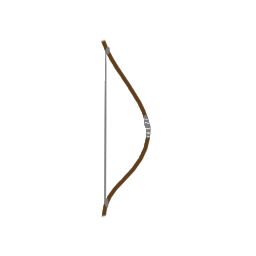
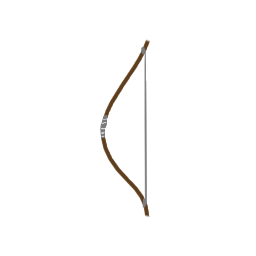
Sok minden!?!?!?!

Changed region(s): [[0.375, 0.1562, 0.5938, 0.8438]]

diff --git a/core/src/csakennijottunk/Game/GameStage.java b/core/src/csakennijottunk/Game/GameStage.java
@@ -39,8 +39,12 @@ public class GameStage extends MyStage {
     PlayerLife life1;
     PlayerLife life2;
     PlayerLife life3;
+    BowActor bowActor;
+    BowPulled bowPulled;
     int playerLife = 3;
     boolean gameOver = false;
+
+
 
     public void generateFlying(){
         ArrayList<Actor> actors = new ArrayList<Actor>();
@@ -52,17 +56,11 @@ public class GameStage extends MyStage {
         for (Actor a:actors) {
             getActors().removeValue(a, true);
         }
+
         Ballistics2 ballistics2 = new Ballistics2(fisherManActor.v0, MathUtils.degreesToRadians * fisherManActor.degree, fisherManActor.get_handEnd().x, fisherManActor.get_handEnd().y);
-        for(float x = fisherManActor.get_handEnd().x; x < getViewport().getWorldWidth(); x+=20) {
+        for(float x = fisherManActor.get_handEnd().x; x < playerActor.getX() + 700; x+=20) {
             addActor(new FlyActor(game, x, ballistics2.getY(x)));
         }
-    }
-
-    public Vector2 getFishingRodEnd(){
-        Vector2 fishingRodEnd = new Vector2(fishingRod);
-        fishingRodEnd.rotate(fisherManActor.degree);
-        fishingRodEnd.add(fisherMan);
-        return fishingRodEnd;
     }
 
     public Actor getActor(Class c){
@@ -76,7 +74,6 @@ public class GameStage extends MyStage {
 
     public GameStage(MyGame game) {
         super(new ResponseViewport(500), game);
-        fisherManActor = new FisherManGroup(game);
         addBackButtonScreenBackByStackPopListener();
         setCameraResetToCenterOfScreen();
         changeActor = new ChangeActor(game);
@@ -109,8 +106,10 @@ public class GameStage extends MyStage {
         life3.setPosition(450, 0);
         addActor(life3);
 
-        bearActor = (BearActor) getActor(BearActor.class);
+        bowActor = new BowActor(game);
+        addActor(bowActor);
 
+        bearActor = (BearActor) getActor(BearActor.class);
         playerActor = (PlayerActor) getActor(PlayerActor.class);
         setCameraTracking(new CameraTrackingToActors());
         ((OrthographicCamera)getCamera()).zoom = 0.1f;
@@ -138,6 +137,19 @@ public class GameStage extends MyStage {
                 }
             }
         });
+        bowActor.addListener(clickListener = new ClickListener(){
+            @Override
+            public void clicked(InputEvent event, float x, float y) {
+                super.clicked(event, x, y);
+                if (playerActor.isMoving == true) {
+                    playerActor.jump();
+                }
+            }
+        });
+
+        if (playerActor.getStage() != null) {
+            fisherManActor = new FisherManGroup(game, playerActor.getX(), playerActor.getY(), playerActor.getX() - 15, playerActor.getY() - 15, playerActor.getX() - 30, playerActor.getY());
+        }
         weaponChange.addListener(new ClickListener(){
             @Override
             public void clicked(InputEvent event, float x, float y) {
@@ -145,8 +157,16 @@ public class GameStage extends MyStage {
                 isBowInHand = !getState();
                 if (getState() == true){
                     playerActor.isMoving = false;
+                    playerActor.setFps(0);
                 }else{
                     playerActor.isMoving = true;
+                    playerActor.setFps(20);
+                    ArrayList<Actor> actors = new ArrayList<Actor>();
+                    for (Actor a:getActors()) {
+                        if (a instanceof FlyActor){
+                            a.remove();
+                        }
+                    }
                 }
             }
         });
@@ -158,6 +178,7 @@ public class GameStage extends MyStage {
                 if (isBowInHand == true) {
                     fisherManActor.set_angle(heightToDegree(y));
                     fisherManActor.set_speed(widthToSpeed(x));
+                    fisherManActor.setPos(playerActor.getX() + playerActor.getWidth() / 2,playerActor.getY() + playerActor.getHeight() / 2);
                     generateFlying();
                     playerActor.isMoving = false;
                 }
@@ -168,6 +189,7 @@ public class GameStage extends MyStage {
                 super.touchUp(event, x, y, pointer, button);
                 if (isBowInHand == true) {
                     addActor(fishFoodActor = new FishFoodActor(game, new Ballistics2(fisherManActor.v0, MathUtils.degreesToRadians * fisherManActor.degree, fisherManActor.get_handEnd().x, fisherManActor.get_handEnd().y), 120));
+
                     //((CameraTrackingToActors)getCameraTracking()).addActor(fishFoodActor);
                 }
             }
@@ -243,6 +265,13 @@ public class GameStage extends MyStage {
 
                 }
             }
+        }
+        if (playerActor.getStage() != null && weaponChange.getStage() != null) {
+            weaponChange.setPosition(playerActor.getX() + 20,getHeight() - weaponChange.getHeight() - 25);
+        }
+
+        if (playerActor.getStage() != null){
+            bowActor.setPosition(playerActor.getX() + playerActor.getWidth() / 2 - 10 - bowActor.getWidth()/2,playerActor.getY() + playerActor.getHeight() / 2 - bowActor.getHeight() / 2);
         }
     }
 }

diff --git a/core/src/csakennijottunk/Game/FisherManGroup.java b/core/src/csakennijottunk/Game/FisherManGroup.java
@@ -14,18 +14,22 @@ public class FisherManGroup extends MyGroup {
         bugFix
     }
 
+    Vector2 topsolders;
+    Vector2 arm;
+    Vector2 rod;
     public Handtype handtype = Handtype.hand;
     public float degree = 45;
     public float v0 = 100;
     public FisherManHandActor fisherManHandActor;
     public HandRod fisherManRodActor;
     public FisherManActor fisherManActor;
-    public Vector2 topsolders = new Vector2(210,310);
-    public Vector2 arm = new Vector2(154,11);
-    public Vector2 rod = new Vector2(276,200).rotate(-45);
 
-    public FisherManGroup(MyGame game) {
+
+    public FisherManGroup(MyGame game,float x1, float y1,float x2, float y2, float x3, float y3) {
         super(game);
+        this.topsolders = new Vector2(x1,y1);
+        this.arm = new Vector2(x2,y2);
+        this.rod = new Vector2(x3,y3).rotate(-45);
         addActor(fisherManActor = new FisherManActor(game));
         addActor(fisherManHandActor = new FisherManHandActor(game));
         addActor(fisherManRodActor = new HandRod(game));
@@ -43,6 +47,10 @@ public class FisherManGroup extends MyGroup {
 
     void set_speed(float v0){
         this.v0 = v0;
+    }
+
+    void setPos(float x1,float y1){
+        topsolders = new Vector2(x1, y1);
     }
 
     void set_hand(Handtype handtype){
@@ -74,9 +82,6 @@ public class FisherManGroup extends MyGroup {
     Vector2 get_handEnd(){
         Vector2 r = new Vector2(getX(),getY());
         r.add(topsolders);
-        Vector2 forgatott = new Vector2((handtype == Handtype.hand ||  handtype == Handtype.none) ? arm : rod);
-        forgatott.rotate(degree);
-        r.add(forgatott);
         return  r;
     }
 }

diff --git a/core/src/csakennijottunk/Game/PlayerActor.java b/core/src/csakennijottunk/Game/PlayerActor.java
@@ -36,13 +36,15 @@ public class PlayerActor extends OneSpriteAnimatedActor {
     @Override
     public void act(float delta) {
         super.act(delta);
+        float currentPos = this.getY();
+        System.out.println(currentPos);
         if (isMoving == true){
             this.setX(this.getX() + 3);
         }
         if (isJumping == true){
             System.out.println("Jelenlegi pos" + this.getY());
             System.out.println((501 - this.getHeight() + 9)/2 + "Ez a cél");
-            float currentPos = this.getY();
+
             if (currentPos >= 30 && currentPos < (501 - this.getHeight() + 9)/2 + 7.5) {
                 System.out.println("pos jó");
                 this.setY(this.getY() + 15);
@@ -55,11 +57,11 @@ public class PlayerActor extends OneSpriteAnimatedActor {
         }
 
         if (isFalling == true){
-            float currentPos = this.getY();
             if (currentPos <= 501-this.getHeight() + 9 && currentPos >= 0) {
-                this.setY(this.getY() - 15);
+                this.setY(this.getY() - 5);
                 System.out.println("Y:" + this.getY());
                 if (currentPos <= 45){
+                    this.setY(30);
                     System.out.println(currentPos);
                     isFalling = false;
                 }

diff --git a/core/src/hu/csanyzeg/master/MyBaseClasses/Scene2D/CameraTrackingToActors.java b/core/src/hu/csanyzeg/master/MyBaseClasses/Scene2D/CameraTrackingToActors.java
@@ -72,7 +72,6 @@ public class CameraTrackingToActors extends CameraTracking {
                                 hz = (top - bottom) / (stage.getViewport().getWorldHeight() - stage.getViewport().getWorldHeight() * marginTop - stage.getViewport().getWorldHeight() * marginBottom)
                         )
                 );
-        System.out.println(wz + " ----- " + hz);
         orthographicCamera.zoom += (z - orthographicCamera.zoom) * zoomSpeed * delta_time * 60.0;
         //z = 1;
 

diff --git a/core/src/csakennijottunk/Game/BowActor.java b/core/src/csakennijottunk/Game/BowActor.java
@@ -1,0 +1,12 @@
+package csakennijottunk.Game;
+
+import hu.csanyzeg.master.MyBaseClasses.Game.MyGame;
+import hu.csanyzeg.master.MyBaseClasses.Scene2D.MyGroup;
+import hu.csanyzeg.master.MyBaseClasses.Scene2D.OneSpriteStaticActor;
+
+public class BowActor extends OneSpriteStaticActor {
+    public BowActor(MyGame game) {
+        super(game, "BowDefault.png");
+        this.setSize(60,60);
+    }
+}

diff --git a/core/src/csakennijottunk/Game/BowPulled.java b/core/src/csakennijottunk/Game/BowPulled.java
@@ -1,0 +1,10 @@
+package csakennijottunk.Game;
+
+import hu.csanyzeg.master.MyBaseClasses.Game.MyGame;
+import hu.csanyzeg.master.MyBaseClasses.Scene2D.OneSpriteStaticActor;
+
+public class BowPulled extends OneSpriteStaticActor {
+    public BowPulled(MyGame game) {
+        super(game, "BowPulled.png");
+    }
+}
